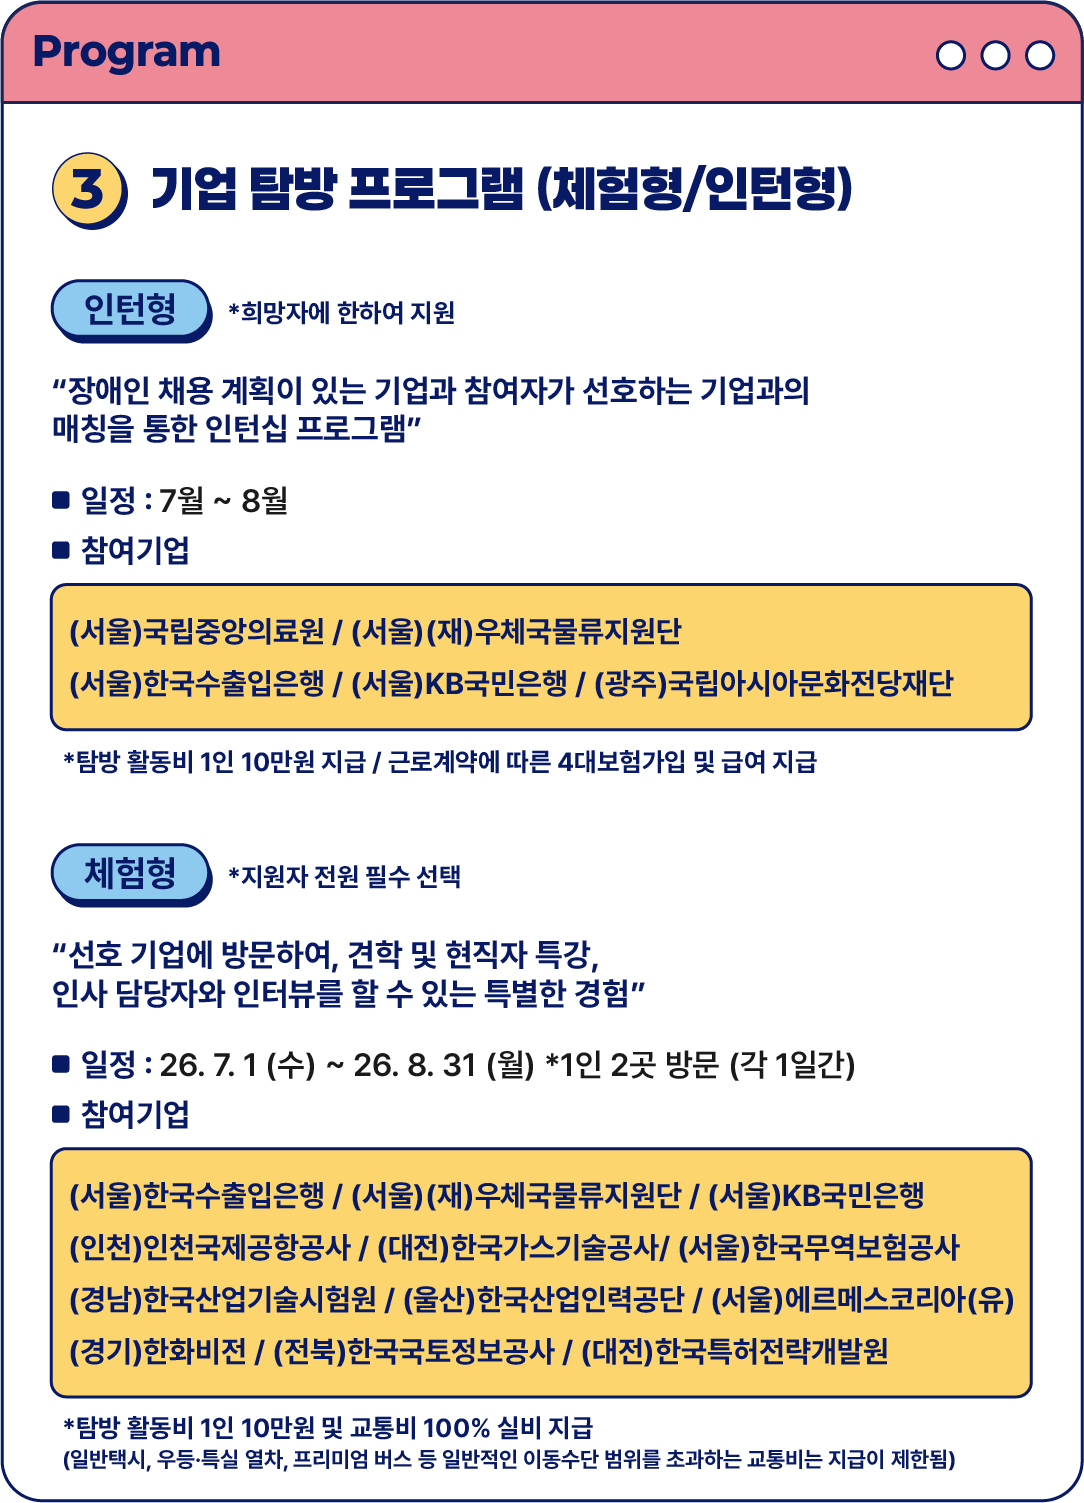
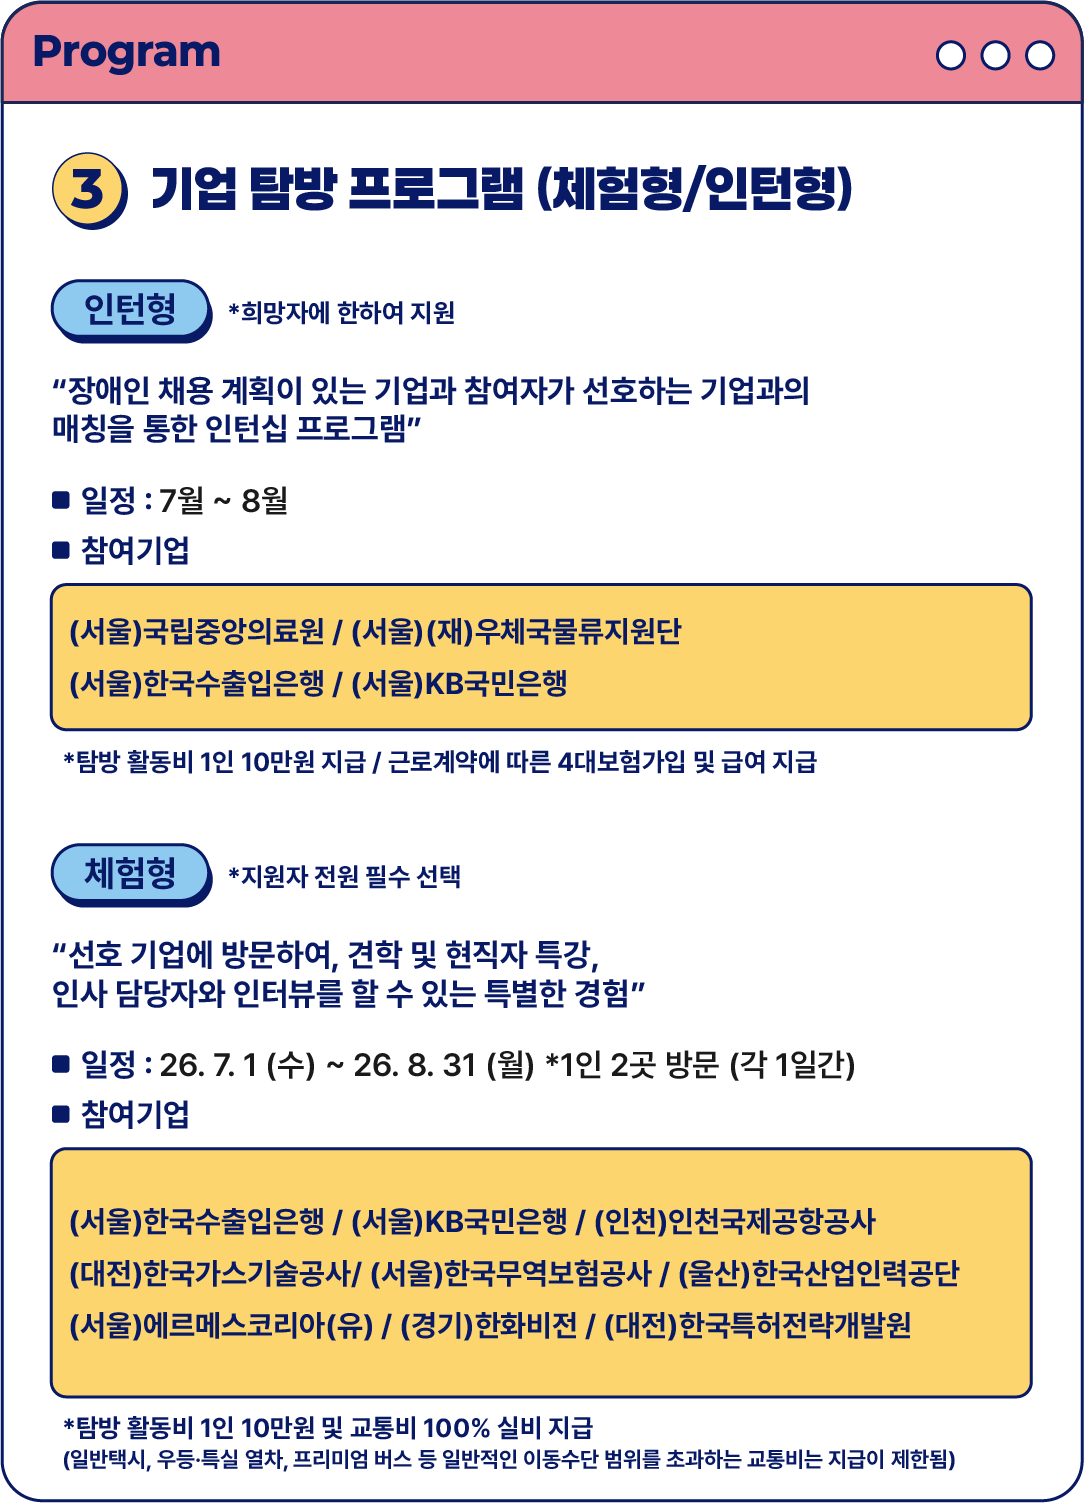
update: deploy index company list changes and p-3 image

Changed region(s): [[0.0609, 0.7651, 0.9437, 0.9182], [0.548, 0.4285, 0.8828, 0.4591]]

diff --git a/index.html b/index.html
@@ -342,20 +342,6 @@
                                                 </div>
                                             </div>
                                         </li>
-                                        <li>
-                                            <div class="file open-popup" data-popup="popup23">
-                                                <img src="img/i-5.png" alt="">
-                                            </div>
-                                            <p>광주. 국립아시아문화전당재단</p>
-                                            <div class="popup-overlay" id="popup23">
-                                                <div class="popup">
-                                                    <span class="close-btn" id="closePopup">&times;</span>
-                                                    <div class="popup-content">
-                                                        <img src="img/sec04_in_p5.png" alt="">
-                                                    </div>
-                                                </div>
-                                            </div>
-                                        </li>
                                     </ul>
                                 </div>
                             </div>
@@ -380,20 +366,6 @@
                                                     <span class="close-btn" id="closePopup">&times;</span>
                                                     <div class="popup-content">
                                                         <img src="img/sec04_p1.png" alt="">
-                                                    </div>
-                                                </div>
-                                            </div>
-                                        </li>
-                                        <li>
-                                            <div class="file open-popup" data-popup="popup8">
-                                                <img src="img/e-2.png" alt="">
-                                            </div>
-                                            <p>서울. (재)우체국물류지원단</p>
-                                            <div class="popup-overlay" id="popup8">
-                                                <div class="popup">
-                                                    <span class="close-btn" id="closePopup">&times;</span>
-                                                    <div class="popup-content">
-                                                        <img src="img/sec04_p2.png" alt="">
                                                     </div>
                                                 </div>
                                             </div>
@@ -455,20 +427,6 @@
                                             </div>
                                         </li>
                                         <li>
-                                            <div class="file open-popup" data-popup="popup13">
-                                                <img src="img/e-7.png" alt="">
-                                            </div>
-                                            <p>경남. 한국산업기술시험원</p>
-                                            <div class="popup-overlay" id="popup13">
-                                                <div class="popup">
-                                                    <span class="close-btn" id="closePopup">&times;</span>
-                                                    <div class="popup-content">
-                                                        <img src="img/sec04_p7.png" alt="">
-                                                    </div>
-                                                </div>
-                                            </div>
-                                        </li>
-                                        <li>
                                             <div class="file open-popup" data-popup="popup14">
                                                 <img src="img/e-8.png" alt="">
                                             </div>
@@ -506,20 +464,6 @@
                                                     <span class="close-btn" id="closePopup">&times;</span>
                                                     <div class="popup-content">
                                                         <img src="img/sec04_p10.png" alt="">
-                                                    </div>
-                                                </div>
-                                            </div>
-                                        </li>
-                                        <li>
-                                            <div class="file open-popup" data-popup="popup17">
-                                                <img src="img/e-11.png" alt="">
-                                            </div>
-                                            <p>전북. 한국국토정보공사</p>
-                                            <div class="popup-overlay" id="popup17">
-                                                <div class="popup">
-                                                    <span class="close-btn" id="closePopup">&times;</span>
-                                                    <div class="popup-content">
-                                                        <img src="img/sec04_p11.png" alt="">
                                                     </div>
                                                 </div>
                                             </div>
